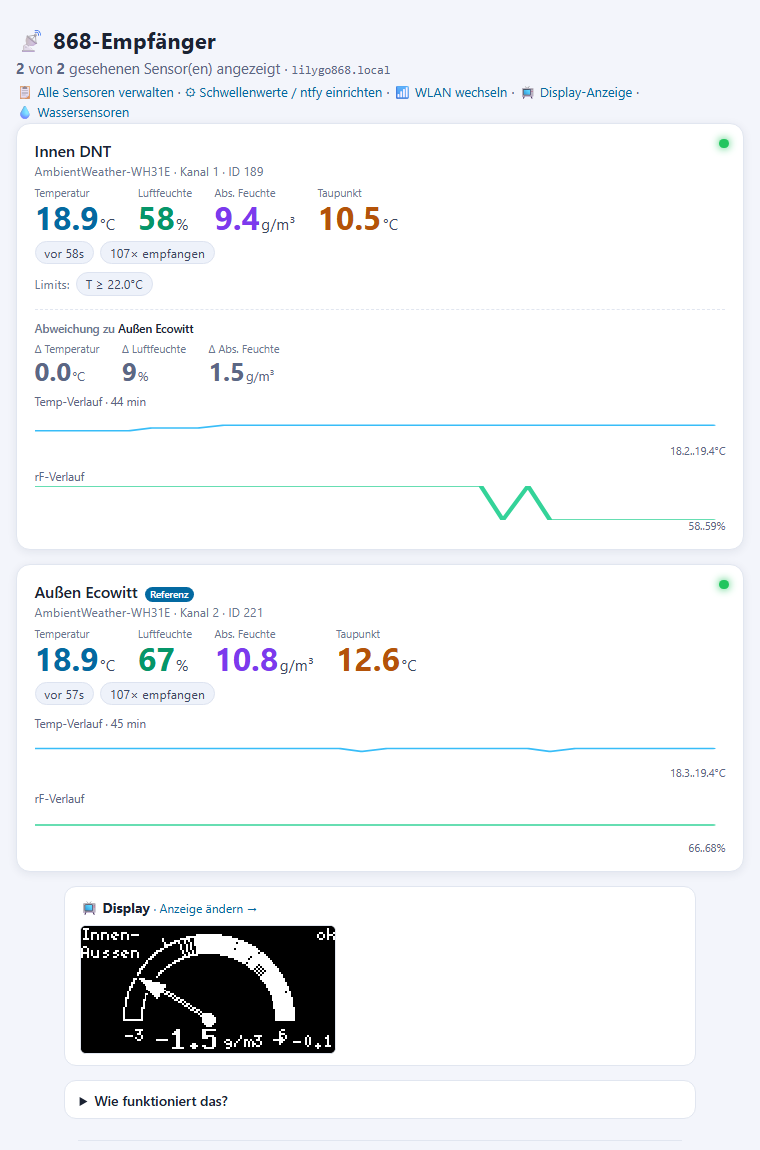
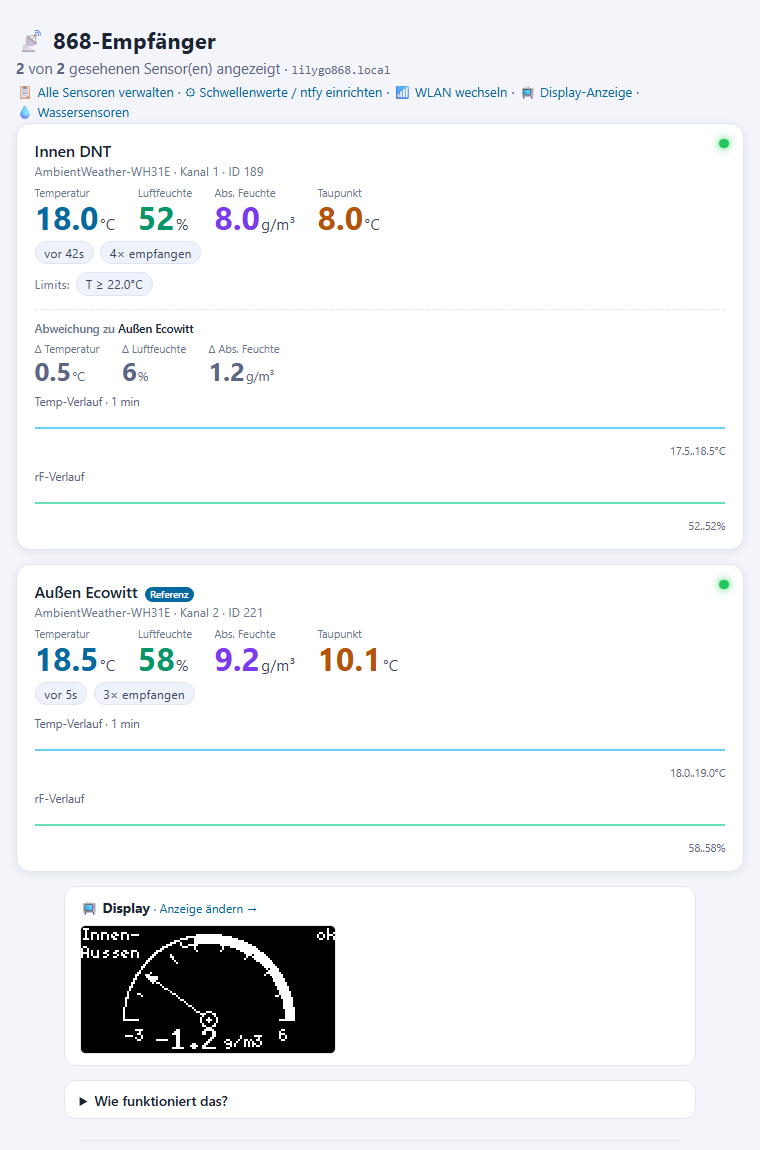
Tacho: filigranere Skala (schlankes Band, feine Teilstriche, dünner Zeiger); Screenshots aktualisiert

diff --git a/src/main.cpp b/src/main.cpp
@@ -2029,7 +2029,7 @@ static GaugeCfg gaugeCfg(int q) {
     default:   return {-3.0f, 6.0f, 0.5f, 1.0f, 1, "g/m3", true};
   }
 }
-static const int   GAUGE_CX = 64, GAUGE_CY = 47, GAUGE_R_OUT = 43, GAUGE_R_IN = 34;
+static const int   GAUGE_CX = 64, GAUGE_CY = 47, GAUGE_R_OUT = 43, GAUGE_R_IN = 39;   // schlankes Band (4 px)
 static const float PI_F = 3.14159265f;
 
 static float gaugeAngle(float v, const GaugeCfg &g) {   // Minimum -> 180 Grad (links), Maximum -> 0 Grad (rechts)
@@ -2044,18 +2044,20 @@ static void gaugeLine(float ang, float r0, float r1) {
                 GAUGE_CX + (int)lroundf(r1 * cosf(ang)), GAUGE_CY - (int)lroundf(r1 * sinf(ang)));
 }
 
-// style 0 = Umriss (gruen), 1 = schraffiert (gelb), 2 = voll (rot)
+// Schlankes Band: style 0 = eine feine Linie (gruen), 1 = Umriss aus zwei Linien (gelb),
+// 2 = voll (rot). Zonengrenzen sind kurze Querstriche.
+static void gaugeArc(float a0, float a1, float r) {
+  for (float a = a1; a <= a0 + 0.001f; a += 0.007f)
+    u8g2.drawPixel(GAUGE_CX + (int)lroundf(r * cosf(a)), GAUGE_CY - (int)lroundf(r * sinf(a)));
+}
+
 static void gaugeBand(float v0, float v1, int style, const GaugeCfg &g) {
   float a0 = gaugeAngle(v0, g), a1 = gaugeAngle(v1, g);   // a0 >= a1
-  if (style == 2) {                                       // fein genug, damit keine Luecken bleiben
+  if (style == 2) {
     for (float a = a1; a <= a0 + 0.001f; a += 0.006f) gaugeLine(a, GAUGE_R_IN, GAUGE_R_OUT);
   } else {
-    for (float a = a1; a <= a0 + 0.001f; a += 0.008f) {   // Bogenkanten als Punktreihe
-      u8g2.drawPixel(GAUGE_CX + (int)lroundf(GAUGE_R_OUT * cosf(a)), GAUGE_CY - (int)lroundf(GAUGE_R_OUT * sinf(a)));
-      u8g2.drawPixel(GAUGE_CX + (int)lroundf(GAUGE_R_IN * cosf(a)),  GAUGE_CY - (int)lroundf(GAUGE_R_IN * sinf(a)));
-    }
-    if (style == 1)
-      for (float a = a1; a <= a0; a += 0.06f) gaugeLine(a, GAUGE_R_IN, GAUGE_R_OUT);
+    gaugeArc(a0, a1, GAUGE_R_OUT);
+    if (style == 1) gaugeArc(a0, a1, GAUGE_R_IN);
   }
   gaugeLine(a0, GAUGE_R_IN, GAUGE_R_OUT);                // Zonengrenzen
   gaugeLine(a1, GAUGE_R_IN, GAUGE_R_OUT);
@@ -2076,7 +2078,12 @@ static void drawGaugePage() {
   } else {
     gaugeBand(g.mn, g.mx, 0, g);
   }
-  gaugeLine(gaugeAngle(0, g), GAUGE_R_OUT + 1, GAUGE_R_OUT + 4);
+  {
+    float span = g.mx - g.mn, step = span <= 12.0f ? 1.0f : span / 10.0f;
+    for (float v = g.mn; v <= g.mx + 0.001f; v += step)
+      gaugeLine(gaugeAngle(v, g), GAUGE_R_IN - 1, GAUGE_R_IN - 3);        // feine Teilstriche innen
+  }
+  gaugeLine(gaugeAngle(0, g), GAUGE_R_IN - 1, GAUGE_R_IN - 6);            // Nullmarke, etwas laenger
   u8g2.setFont(u8g2_font_5x8_tf);
   char lim[8];
   snprintf(lim, sizeof(lim), "%.0f", g.mn);
@@ -2106,25 +2113,23 @@ static void drawGaugePage() {
   float tr;
   if (ok && trendGauge && gaugeTrend(q, d, tr)) drawTrendMark(111, 54, tr, q);
 
-  // Zeiger als richtiger Pfeil: 2 px dicker Schaft vom Drehpunkt bis zur Spitze und eine lange,
-  // spitze Pfeilspitze; schwarzer Rand um die Spitze, damit sie auf der gefuellten Zone sichtbar bleibt.
+  // Zeiger: feine 1-px-Linie mit schmaler Spitze, schwarzer Saum, damit sie ueber der roten Zone sichtbar bleibt.
   if (ok) {
-    const float TIP = 42, BASE = 27, HW = 5;                   // Spitze/Kopf-Basis (Radius) und halbe Kopfbreite
+    const float TIP = 41, BASE = 33, HW = 2.5f;
     float th = gaugeAngle(d, g), c = cosf(th), s = sinf(th);
-    float bx = GAUGE_CX + BASE * c, by = GAUGE_CY - BASE * s;  // Mitte der Kopf-Basis
-    int ox = (int)lroundf(s), oy = (int)lroundf(c);            // 1 px seitlich fuer einen dickeren Schaft
+    float bx = GAUGE_CX + BASE * c, by = GAUGE_CY - BASE * s;
     u8g2.setDrawColor(0);
-    u8g2.drawTriangle((int)lroundf(GAUGE_CX + (TIP + 2.5f) * c), (int)lroundf(GAUGE_CY - (TIP + 2.5f) * s),
-                      (int)lroundf(bx - 1.2f * c + 7.5f * s), (int)lroundf(by + 1.2f * s + 7.5f * c),
-                      (int)lroundf(bx - 1.2f * c - 7.5f * s), (int)lroundf(by + 1.2f * s - 7.5f * c));
+    u8g2.drawTriangle((int)lroundf(GAUGE_CX + (TIP + 1.5f) * c), (int)lroundf(GAUGE_CY - (TIP + 1.5f) * s),
+                      (int)lroundf(bx + (HW + 1.5f) * s), (int)lroundf(by + (HW + 1.5f) * c),
+                      (int)lroundf(bx - (HW + 1.5f) * s), (int)lroundf(by - (HW + 1.5f) * c));
     u8g2.setDrawColor(1);
-    u8g2.drawLine(GAUGE_CX, GAUGE_CY, (int)lroundf(bx), (int)lroundf(by));
-    u8g2.drawLine(GAUGE_CX + ox, GAUGE_CY + oy, (int)lroundf(bx) + ox, (int)lroundf(by) + oy);
+    u8g2.drawLine(GAUGE_CX + (int)lroundf(5 * c), GAUGE_CY - (int)lroundf(5 * s), (int)lroundf(bx), (int)lroundf(by));
     u8g2.drawTriangle((int)lroundf(GAUGE_CX + TIP * c), (int)lroundf(GAUGE_CY - TIP * s),
                       (int)lroundf(bx + HW * s), (int)lroundf(by + HW * c),
                       (int)lroundf(bx - HW * s), (int)lroundf(by - HW * c));
   }
-  u8g2.drawDisc(GAUGE_CX, GAUGE_CY, 3);
+  u8g2.drawCircle(GAUGE_CX, GAUGE_CY, 4);        // Nabe: Ring mit Punkt statt grosser Scheibe
+  u8g2.drawDisc(GAUGE_CX, GAUGE_CY, 1);
 }
 
 /* ---- 4d) Sensor-Vergleich: dieselbe Groesse von zwei Sensoren nebeneinander ----
